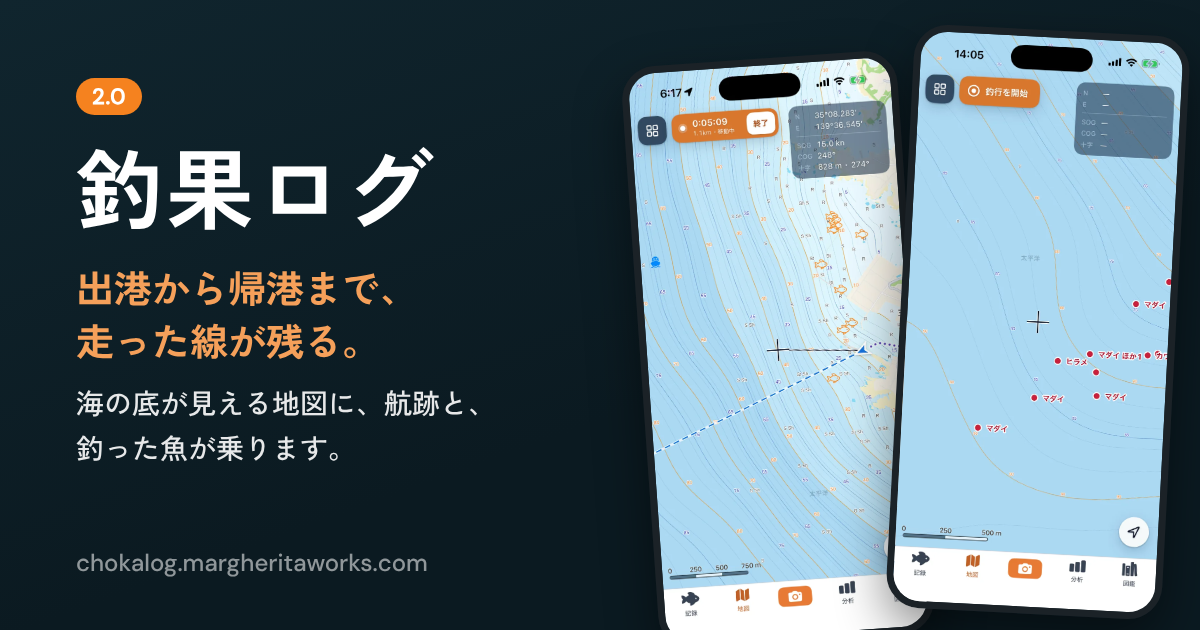
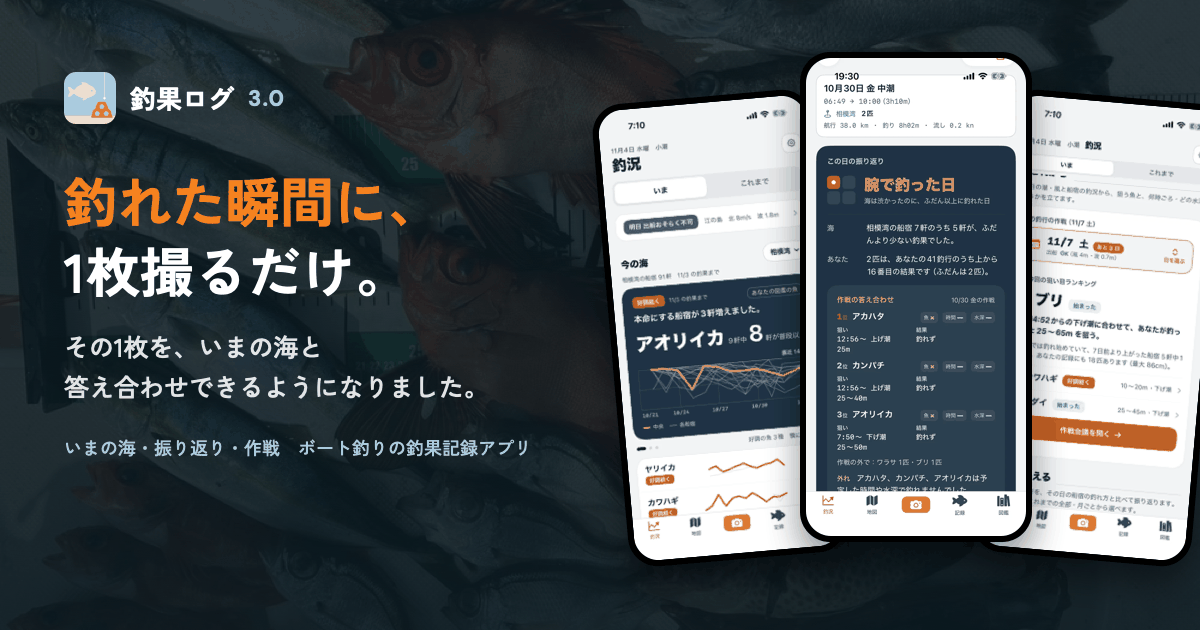
プライバシーポリシーに 3.0 の節（AI・船宿の釣況・海面水温・取り込み）を足し、分析の見方に 3.0 の移動を入れ、ページの説明と og.png を 3.0 にする（使っていない素材は外す）

diff --git a/privacy/index.html b/privacy/index.html
@@ -4,14 +4,14 @@
   <meta charset="utf-8" />
   <meta name="viewport" content="width=device-width, initial-scale=1" />
   <title>プライバシーポリシー｜釣果ログ</title>
-  <meta name="description" content="釣果ログ（iPhone版・Android版）のプライバシーポリシー。扱う情報、位置情報と航跡、海況の取得や分析のために送る情報、地図の表示、ご意見の送信、バックアップと同期、データの削除、お問い合わせ先。" />
+  <meta name="description" content="釣果ログ（iPhone版・Android版）のプライバシーポリシー。扱う情報、位置情報と航跡、海況の取得や分析のために送る情報、地図の表示、釣果ログ プラスと AI の機能、船宿の釣況、海面水温、海釣図V の記録の取り込み、ご意見の送信、バックアップと同期、データの削除、お問い合わせ先。" />
   <link rel="canonical" href="https://chokalog.margheritaworks.com/privacy/" />
 
   <!-- OGP -->
   <meta property="og:type"        content="website" />
   <meta property="og:url"         content="https://chokalog.margheritaworks.com/privacy/" />
   <meta property="og:title"       content="プライバシーポリシー｜釣果ログ" />
-  <meta property="og:description" content="釣果ログ（iPhone版・Android版）のプライバシーポリシー。扱う情報、位置情報と航跡、海況の取得や分析のために送る情報、地図の表示、ご意見の送信、バックアップと同期、データの削除、お問い合わせ先。" />
+  <meta property="og:description" content="釣果ログ（iPhone版・Android版）のプライバシーポリシー。扱う情報、位置情報と航跡、海況の取得や分析のために送る情報、地図の表示、釣果ログ プラスと AI の機能、船宿の釣況、海面水温、海釣図V の記録の取り込み、ご意見の送信、バックアップと同期、データの削除、お問い合わせ先。" />
   <meta property="og:image"       content="https://chokalog.margheritaworks.com/assets/img/og.png" />
   <meta property="og:image:width" content="1200" />
   <meta property="og:image:height" content="630" />
@@ -110,7 +110,7 @@
     <div class="privacy-page-header" style="padding-top: 48px;">
       <span class="label label--blue" style="display:block; margin-bottom:16px;">LEGAL</span>
       <h1 style="margin:0 0 12px; font-size:var(--text-display); font-weight:700; line-height:1.28;"><span class="nw">プライバシーポリシー</span></h1>
-      <p style="margin:0; font-size:var(--text-caption); font-weight:500; color:var(--color-ink-muted);">最終更新日：2026年10月23日</p>
+      <p style="margin:0; font-size:var(--text-caption); font-weight:500; color:var(--color-ink-muted);"><!-- 3.0 の公開の日に、公開日に直す -->最終更新日：2026年11月4日</p>
     </div>
 
     <!-- 本文レイアウト（デスクトップ: 2カラム） -->
@@ -126,16 +126,20 @@
           <a href="#pp-analysis">5. 分析のために送る情報（iPhone版）</a>
           <a href="#pp-map">6. 地図の表示</a>
           <a href="#pp-place">7. 地名の表示（iPhone版）</a>
-          <a href="#pp-permission">8. 権限の利用目的</a>
-          <a href="#pp-feedback">9. ご意見の送信</a>
-          <a href="#pp-backup">10. バックアップと同期</a>
-          <a href="#pp-ads">11. 第三者提供・広告・解析</a>
-          <a href="#pp-https">12. 通信の暗号化</a>
-          <a href="#pp-delete">13. データの削除</a>
-          <a href="#pp-source">14. データの出典と免責</a>
-          <a href="#pp-changes">15. 本ポリシーの変更</a>
-          <a href="#pp-contact">16. お問い合わせ</a>
-          <a href="#pp-notify">17. お知らせの配信希望</a>
+          <a href="#pp-ai">8. 釣果ログ プラスと AI の機能（3.0 から）</a>
+          <a href="#pp-chokyo">9. 船宿の釣況（3.0 から）</a>
+          <a href="#pp-sst">10. 海面水温の自動入力（3.0 から）</a>
+          <a href="#pp-import">11. 海釣図V の記録の取り込み（3.0 から）</a>
+          <a href="#pp-permission">12. 権限の利用目的</a>
+          <a href="#pp-feedback">13. ご意見の送信</a>
+          <a href="#pp-backup">14. バックアップと同期</a>
+          <a href="#pp-ads">15. 第三者提供・広告・解析</a>
+          <a href="#pp-https">16. 通信の暗号化</a>
+          <a href="#pp-delete">17. データの削除</a>
+          <a href="#pp-source">18. データの出典と免責</a>
+          <a href="#pp-changes">19. 本ポリシーの変更</a>
+          <a href="#pp-contact">20. お問い合わせ</a>
+          <a href="#pp-notify">21. お知らせの配信希望</a>
         </aside>
 
       <!-- モバイル目次（<details> で折り畳み） -->
@@ -149,16 +153,20 @@
             <a href="#pp-analysis">5. 分析のために送る情報（iPhone版）</a>
             <a href="#pp-map">6. 地図の表示</a>
             <a href="#pp-place">7. 地名の表示（iPhone版）</a>
-            <a href="#pp-permission">8. 権限の利用目的</a>
-            <a href="#pp-feedback">9. ご意見の送信</a>
-            <a href="#pp-backup">10. バックアップと同期</a>
-            <a href="#pp-ads">11. 第三者提供・広告・解析</a>
-            <a href="#pp-https">12. 通信の暗号化</a>
-            <a href="#pp-delete">13. データの削除</a>
-            <a href="#pp-source">14. データの出典と免責</a>
-            <a href="#pp-changes">15. 本ポリシーの変更</a>
-            <a href="#pp-contact">16. お問い合わせ</a>
-            <a href="#pp-notify">17. お知らせの配信希望</a>
+            <a href="#pp-ai">8. 釣果ログ プラスと AI の機能（3.0 から）</a>
+            <a href="#pp-chokyo">9. 船宿の釣況（3.0 から）</a>
+            <a href="#pp-sst">10. 海面水温の自動入力（3.0 から）</a>
+            <a href="#pp-import">11. 海釣図V の記録の取り込み（3.0 から）</a>
+            <a href="#pp-permission">12. 権限の利用目的</a>
+            <a href="#pp-feedback">13. ご意見の送信</a>
+            <a href="#pp-backup">14. バックアップと同期</a>
+            <a href="#pp-ads">15. 第三者提供・広告・解析</a>
+            <a href="#pp-https">16. 通信の暗号化</a>
+            <a href="#pp-delete">17. データの削除</a>
+            <a href="#pp-source">18. データの出典と免責</a>
+            <a href="#pp-changes">19. 本ポリシーの変更</a>
+            <a href="#pp-contact">20. お問い合わせ</a>
+            <a href="#pp-notify">21. お知らせの配信希望</a>
           </nav>
       </details>
 
@@ -173,7 +181,7 @@
         <section id="pp-overview" aria-labelledby="pp-overview-heading">
           <h2 id="pp-overview-heading"><span class="nw">2.</span> <span class="nw">この</span><span class="nw">アプリが</span><span class="nw">扱う</span><span class="nw">情報の</span><span class="nw">全体</span></h2>
           <p>釣果ログは、アカウントの登録なしでお使いいただけるアプリです。写真と釣果の記録（魚種、全長、水深、メモなど）、釣行の航跡は、お使いの端末の中に保存します。運営者のサーバーに保存することはありません。魚種の判定も、端末の中で行います。</p>
-          <p>ただし、潮汐・天気・底質などの取得、地図の表示、分析のために、釣果の位置や、位置を含む範囲を外部に送ります。何を、どこへ送るかは、4〜7 に書きます。</p>
+          <p>ただし、潮汐・天気・底質などの取得、地図の表示、分析のために、釣果の位置や、位置を含む範囲を外部に送ります。3.0 からは、振り返りなどの AI の機能、船宿の釣況、海面水温の自動入力のためにも送ります。何を、どこへ送るかは、4〜11 に書きます。</p>
         </section>
 
         <section id="pp-location" aria-labelledby="pp-location-heading">
@@ -187,6 +195,7 @@
           <p>釣行を記録していないとき（出港の自動検知もオフのとき）は、アプリが裏に回ると、位置情報の取得を止めます。</p>
           <p>航跡（時刻、緯度・経度、位置の精度、速さ、進む向き、移動中か釣り中か）は、端末の中だけに保存し、運営者のサーバーにも、ほかのどこにも送りません。航跡が端末の外に出るのは、ご自身でバックアップなどを書き出した場合だけです。釣果の無い釣行の天気を取るために航跡の中の 1 点の座標を送ることは 4 に、分析のために航跡のまわりのおおまかな範囲を送ることは 5 に書きます。</p>
           <p>釣行の記録中は、アプリの動作の記録（電池の残量、端末の温度の状態、位置の精度の統計など。緯度・経度は含みません）を、端末の中に 1 分ごとに残します。この記録が端末の外に出るのは、設定からご自身で共有した場合だけです。</p>
+          <p>iPhone版の 3.0 では、初めてアプリを入れた方（釣果も母港もない方）に、近くの海の釣況を出すため、現在地から一番近い対応している海域を選びます。このときの現在地は、約 1km に丸めて端末の中に保存し、海域を選ぶためだけに端末の中で使います。</p>
           <p>取得した現在地そのものを外部に送ることはありませんが、撮影したときの現在地は釣果の位置となり、4 の海況の取得に使われます。</p>
         </section>
 
@@ -194,7 +203,7 @@
           <h2 id="pp-network-heading"><span class="nw">4.</span> <span class="nw">海況の</span><span class="nw">取得のために</span><span class="nw">送る</span><span class="nw">情報</span></h2>
           <p>釣果に潮汐・潮流・天気・底質などを添えるため、釣果の位置と日時を、次の先に送ります。</p>
           <ul>
-            <li>気象データ（気温・天気・風・波）：Open-Meteo に、釣果の位置（緯度・経度）と日付を送ります。位置は丸めず、小数 5 桁（約 1m）の細かさのまま送ります（iPhone版・Android版とも）。また、釣行の 1 日分の天気を取るときに、その釣行のエリアの地点の緯度・経度も、同じように送ります。釣果の無い釣行では、航跡の中の 1 点（最初に釣りをしていた点。無ければ最初の点）をエリアの地点にするので、その点の緯度・経度を送ります。送った情報を、運営者が保存することはありません。</li>
+            <li>気象データ（気温・天気・風・波）：Open-Meteo に、釣果の位置（緯度・経度）と日付を送ります。位置は丸めず、小数 5 桁（約 1m）の細かさのまま送ります（iPhone版・Android版とも）。また、釣行の 1 日分の天気を取るときに、その釣行のエリアの地点の緯度・経度も、同じように送ります。釣果の無い釣行では、航跡の中の 1 点（最初に釣りをしていた点。無ければ最初の点）をエリアの地点にするので、その点の緯度・経度を送ります。送った情報を、運営者が保存することはありません。iPhone版の 3.0 からは、明日の海や作戦の日の予報を取るために、母港・最近の釣果の位置・端末の現在地（約 1km に丸めて端末に保存した値）などの緯度・経度も、Open-Meteo に送ります。</li>
             <li>潮汐・潮流・海底の情報：運営者が管理するサーバー（Cloudflare Workers）に送ります。底質・魚礁・沈船を調べるときは、釣果の位置を中心にした範囲（緯度・経度それぞれ ±0.1°）を送ります。範囲の中心が釣果の位置なので、送った範囲から釣果の位置（iPhone版では約 10m の細かさ）が分かります。潮汐と潮流は、端末の中で選んだ、釣果の位置に近い推算点と海域の番号と、日付・時刻を送ります（緯度・経度は送りません）。サーバーは、送られた範囲を約 25km 四方（緯度・経度 0.25°）の升目の区切りまで広げた単位で、取得した結果を保存し、最大 90 日（底質は 90 日、魚礁・沈船は 30 日）で消します。同じ場所の問い合わせに再利用するためで、どの利用者が問い合わせたかは記録しません。</li>
           </ul>
           <p>位置が確定していない釣果については、送りません。</p>
@@ -227,8 +236,33 @@
           <p>釣果の画面に地名を出すため、釣果の位置（緯度・経度）を、Apple の地名を調べる機能（iOS の位置情報の機能）を通じて Apple に送ります。渡した情報の扱いは、<a href="https://www.apple.com/jp/legal/privacy/">Apple のプライバシーポリシー</a>に従います。</p>
         </section>
 
+        <section id="pp-ai" aria-labelledby="pp-ai-heading">
+          <h2 id="pp-ai-heading"><span class="nw">8.</span> <span class="nw">釣果ログ プラスと</span><span class="nw">AI の機能（3.0 から）</span></h2>
+          <p>振り返りや作戦の文章は AI が書いています。数字と分類はアプリが計算し、AI はそれを文章にするだけです。</p>
+          <p>文章を作るために、海域・日付・時刻・水深・潮・底質・魚種・大きさ・匹数と、振り返りではエリアの名前（あなたが付けた釣り場の名前）と約 10km 四方の区画を、当社のサーバー（Cloudflare）に送ります。釣った場所の緯度経度、航跡、写真は送りません。送った内容は文章を作るためだけに使い、サーバーには残しません。文章は Cloudflare の Workers AI で作ります。</p>
+          <p>無料の振り返りの回数と、釣果ログ プラスの使用の回数を数えるため、アプリが作る端末の ID と、App Store の購入の ID を、元に戻せない形（ハッシュ）にした値と、回数だけをサーバーに保存します。釣果の中身は保存しません。これらを広告やトラッキングに使うことはありません。</p>
+          <p>釣果ログ プラスの購入は Apple の App Store（Android版は Google Play）で行われます。お支払いの情報を当社が受け取ることはありません。</p>
+        </section>
+
+        <section id="pp-chokyo" aria-labelledby="pp-chokyo-heading">
+          <h2 id="pp-chokyo-heading"><span class="nw">9.</span> <span class="nw">船宿の</span><span class="nw">釣況（3.0 から）</span></h2>
+          <p>船宿の釣況は、今釣れ（imatsure.com）から、海域・魚種・日付・港を指定して読み込みます。あなたの位置（緯度経度）や釣果は送りません。今釣れの側には、通信のアクセスの記録が残ることがあります。</p>
+          <p>「この海域を希望する」を押したときは、海域の名前だけを当社のサーバーに送ります。</p>
+        </section>
+
+        <section id="pp-sst" aria-labelledby="pp-sst-heading">
+          <h2 id="pp-sst-heading"><span class="nw">10.</span> <span class="nw">海面水温の</span><span class="nw">自動入力（3.0 から）</span></h2>
+          <p>水温を手で入れていない釣果に、衛星で測った海面水温を入れるため、釣った場所を小数 2 桁（約 1km）に丸めた緯度・経度と日付を、当社のサーバー（Cloudflare Workers）に送ります。サーバーは場所を保存しません。サーバーから海面水温のデータの提供元へは、緯度・経度 1° ごとのマスの名前（例：N35E139）と日付だけを渡します。手で水温を入れた釣果では、送りません。</p>
+        </section>
+
+        <section id="pp-import" aria-labelledby="pp-import-heading">
+          <h2 id="pp-import-heading"><span class="nw">11.</span> <span class="nw">海釣図V の</span><span class="nw">記録の</span><span class="nw">取り込み（3.0 から）</span></h2>
+          <p>海釣図V のバックアップの取り込みは、端末の中だけで行い、外には何も送りません。取り込んだ後に水深・水温・天気・潮を入れるときは、ふだん釣果を入れたときと同じ通信を行います（4・10 に書いたとおり）。</p>
+          <p>取り込みで「iPhone から自動で探す」を選んだときだけ、写真ライブラリの読み取りの許可を求め、取り込む釣行の時間に撮った写真を撮影日時で探して、釣果に付けます。写真の位置は使いません。写真は端末の外へ送りません。</p>
+        </section>
+
         <section id="pp-permission" aria-labelledby="pp-permission-heading">
-          <h2 id="pp-permission-heading"><span class="nw">8.</span> <span class="nw">権限の</span><span class="nw">利用目的</span></h2>
+          <h2 id="pp-permission-heading"><span class="nw">12.</span> <span class="nw">権限の</span><span class="nw">利用目的</span></h2>
           <p>本アプリが要求するシステム権限とその目的は以下のとおりです。</p>
           <table class="def-table" aria-label="権限の利用目的">
             <thead>
@@ -240,7 +274,7 @@
             <tbody>
               <tr>
                 <td>写真ライブラリ<br>（iPhone版）</td>
-                <td>釣果を記録する際に写真を選択するために必要です。撮影日時・位置情報（Exif）を記録の初期値に使用します。撮影した釣果の写真を写真ライブラリに保存するときにも使います。写真データはサーバーへ送信しません。</td>
+                <td>釣果を記録する際に写真を選択するために必要です。撮影日時・位置情報（Exif）を記録の初期値に使用します。撮影した釣果の写真を写真ライブラリに保存するときにも使います。3.0 から、海釣図V の記録の取り込みで「iPhone から自動で探す」を選んだときだけ、写真ライブラリの読み取りの許可を求めます（11 を参照）。写真データはサーバーへ送信しません。</td>
               </tr>
               <tr>
                 <td>写真の選択<br>（Android版）</td>
@@ -252,7 +286,7 @@
               </tr>
               <tr>
                 <td>位置情報（使用中のみ）<br>（iPhone版・Android版）</td>
-                <td>釣果場所を地図上に正確に記録するため、地図に現在地を出すため、釣行の航跡を記録するために必要です。釣行の記録中に限り、画面を閉じた後も位置情報を使います（「位置情報と航跡」を参照）。撮影したときの現在地は釣果の位置となり、「海況の取得のために送る情報」に書いた送信に使われます。Android版では、正確な位置とおおよその位置の権限を求めます。位置情報を許可しなくても、釣果は記録できます。</td>
+                <td>釣果場所を地図上に正確に記録するため、地図に現在地を出すため、釣行の航跡を記録するため、近くの海の釣況を出すために必要です。釣行の記録中に限り、画面を閉じた後も位置情報を使います（「位置情報と航跡」を参照）。撮影したときの現在地は釣果の位置となり、「海況の取得のために送る情報」に書いた送信に使われます。Android版では、正確な位置とおおよその位置の権限を求めます。位置情報を許可しなくても、釣果は記録できます。</td>
               </tr>
               <tr>
                 <td>位置情報（常に）<br>（iPhone版）</td>
@@ -260,14 +294,14 @@
               </tr>
               <tr>
                 <td>通知<br>（iPhone版・Android版）</td>
-                <td>iPhone版：出港の自動検知で、釣行の記録を始めたとき・終えたときにお知らせするために使います。出港の自動検知をオンにしたときだけ求めます。<br>Android版：釣行の記録中であることを、通知でお知らせするために使います。Android 13 以上で、初めて記録を始めるときに求めます。許可しなくても、記録はできます。</td>
+                <td>iPhone版：出港の自動検知で、釣行の記録を始めたとき・終えたときにお知らせするために使います。3.0 からは、気になる魚が上向いたとき、作戦の日の出船の目安が悪くなったとき、海の上の通知（釣果ログ プラス）などにも使います。通知は端末の中で作り、サーバーからは送りません。許可は、通知を初めてオンにしたときに求めます。<br>Android版：釣行の記録中であることを、通知でお知らせするために使います。Android 13 以上で、初めて記録を始めるときに求めます。許可しなくても、記録はできます。</td>
               </tr>
             </tbody>
           </table>
         </section>
 
 <section id="pp-feedback" aria-labelledby="pp-feedback-heading">
-          <h2 id="pp-feedback-heading"><span class="nw">9.</span> <span class="nw">ご</span><span class="nw">意見の</span><span class="nw">送信</span></h2>
+          <h2 id="pp-feedback-heading"><span class="nw">13.</span> <span class="nw">ご</span><span class="nw">意見の</span><span class="nw">送信</span></h2>
           <p>アプリの「ご意見を送る」からご意見をお送りいただいた場合、次の情報を運営者のサーバーに送ります。</p>
           <ul>
             <li>ご意見の本文と種類</li>
@@ -278,7 +312,7 @@
         </section>
 
         <section id="pp-backup" aria-labelledby="pp-backup-heading">
-          <h2 id="pp-backup-heading"><span class="nw">10.</span> <span class="nw">バックアップと</span><span class="nw">同期</span></h2>
+          <h2 id="pp-backup-heading"><span class="nw">14.</span> <span class="nw">バックアップと</span><span class="nw">同期</span></h2>
           <ul>
             <li>iPhone版：iCloud での同期は行いません。記録は端末の中にあります。設定の「データ管理」から、バックアップ（JSON、または写真と航跡を含む zip）を書き出せます。書き出したファイルは iOS の共有の画面で渡し、保存先はご自身で選びます。アプリがどこかへ送ることはありません。</li>
             <li>Android版：Android の自動バックアップにより、記録と設定がお使いの Google アカウントにバックアップされます。写真と航跡の線は含みません（自動バックアップから戻した場合、釣行の距離と釣りの時間は残りますが、地図の航跡の線は出ません）。設定の「データ管理」から、バックアップ（JSON、または写真と航跡を含む zip）を書き出せます。書き出したファイルは Android の共有の画面で渡し、保存先はご自身で選びます。アプリがどこかへ送ることはありません。</li>
@@ -287,37 +321,38 @@
         </section>
 
 <section id="pp-ads" aria-labelledby="pp-ads-heading">
-          <h2 id="pp-ads-heading"><span class="nw">11.</span> <span class="nw">第三者提供・広告・解析</span></h2>
+          <h2 id="pp-ads-heading"><span class="nw">15.</span> <span class="nw">第三者提供・広告・解析</span></h2>
           <p>広告は表示しません。アプリ自体には、利用状況を解析するための仕組みを組み込んでいません。ただし、Google Play からインストールした Android版では、Google Play が、アプリが異常終了したときの記録や、アプリの動作の統計を集め、開発者に提供することがあります（Google Play の仕組みによるもので、詳しくは <a href="https://policies.google.com/privacy">Google のプライバシーポリシー</a> をご覧ください）。</p>
-          <p>釣果データや個人情報を、第三者に販売・提供することはありません。ただし、「海況の取得のために送る情報」「分析のために送る情報」「地図の表示」「地名の表示」に書いた送信を除きます。</p>
+          <p>釣果データや個人情報を、第三者に販売・提供することはありません。ただし、「海況の取得のために送る情報」「分析のために送る情報」「地図の表示」「地名の表示」「釣果ログ プラスと AI の機能」「船宿の釣況」「海面水温の自動入力」に書いた送信を除きます。</p>
         </section>
 
 <section id="pp-https" aria-labelledby="pp-https-heading">
-          <h2 id="pp-https-heading"><span class="nw">12.</span> <span class="nw">通信の</span><span class="nw">暗号化</span></h2>
+          <h2 id="pp-https-heading"><span class="nw">16.</span> <span class="nw">通信の</span><span class="nw">暗号化</span></h2>
           <p>外部との通信は、すべて暗号化（HTTPS）して行います。</p>
         </section>
 
 <section id="pp-delete" aria-labelledby="pp-delete-heading">
-          <h2 id="pp-delete-heading"><span class="nw">13.</span> <span class="nw">データの</span><span class="nw">削除</span></h2>
+          <h2 id="pp-delete-heading"><span class="nw">17.</span> <span class="nw">データの</span><span class="nw">削除</span></h2>
           <p>端末の中の記録は、アプリの中で削除できます。アプリを削除すると、端末の中の記録もすべて削除されます。お送りいただいたご意見の削除を希望される場合は、<a href="mailto:support@margheritaworks.com">support@margheritaworks.com</a> までご連絡ください。</p>
         </section>
 
 <section id="pp-source" aria-labelledby="pp-source-heading">
-          <h2 id="pp-source-heading"><span class="nw">14.</span> <span class="nw">データの</span><span class="nw">出典と</span><span class="nw">免責</span></h2>
+          <h2 id="pp-source-heading"><span class="nw">18.</span> <span class="nw">データの</span><span class="nw">出典と</span><span class="nw">免責</span></h2>
           <!-- 海しるAPI利用規約第5条の文言（一字一句変更禁止） -->
           <p>このサービスは、海しるAPIを利用して取得した情報をもとに作成しているが、サービスの内容は海上保安庁によって保証されたものではない</p>
           <p>出典：海洋状況表示システム（<a href="https://www.msil.go.jp/">https://www.msil.go.jp/</a>）</p>
+          <p>海面水温：NASA/JPL MUR SST。These data were provided by JPL under support by NASA MEaSUREs program.</p>
           <p style="color:var(--color-ink-muted);">本アプリは、航海・安全・漁業その他の専門的判断には使用できません。</p>
         </section>
 
 <section id="pp-changes" aria-labelledby="pp-changes-heading">
-          <h2 id="pp-changes-heading"><span class="nw">15.</span> <span class="nw">本ポリシーの</span><span class="nw">変更</span></h2>
+          <h2 id="pp-changes-heading"><span class="nw">19.</span> <span class="nw">本ポリシーの</span><span class="nw">変更</span></h2>
           <p>本ポリシーを変更する場合は、このページの最終更新日を更新します。重要な変更がある場合は、アプリ内でも通知します。</p>
           <p>最新のポリシーは常にこのページでご確認いただけます。</p>
         </section>
 
 <section id="pp-contact" aria-labelledby="pp-contact-heading">
-          <h2 id="pp-contact-heading"><span class="nw">16.</span> <span class="nw">お</span><span class="nw">問い</span><span class="nw">合わせ</span></h2>
+          <h2 id="pp-contact-heading"><span class="nw">20.</span> <span class="nw">お</span><span class="nw">問い</span><span class="nw">合わせ</span></h2>
           <div class="contact-block">
             <p style="margin:0; font-size:var(--text-heading-sm); font-weight:700; line-height:1.4;">お問い合わせ</p>
             <p style="margin:0; color:var(--color-ink-muted);">本ポリシーおよび本アプリに関するご質問は下記までご連絡ください。</p>
@@ -329,7 +364,7 @@
         </section>
 
 <section id="pp-notify" aria-labelledby="pp-notify-heading">
-          <h2 id="pp-notify-heading"><span class="nw">17.</span> <span class="nw">お</span><span class="nw">知らせの</span><span class="nw">配信希望</span></h2>
+          <h2 id="pp-notify-heading"><span class="nw">21.</span> <span class="nw">お</span><span class="nw">知らせの</span><span class="nw">配信希望</span></h2>
           <p>Android版などのお知らせを希望される方から、メールアドレスをお預かりすることがあります。お預かりしたアドレスは、テスト参加のお願いと公開のお知らせの送信にのみ使用し、第三者に提供しません。お知らせメール内のリンク、または <a href="mailto:support@margheritaworks.com">support@margheritaworks.com</a> へのご連絡により、いつでも削除できます。</p>
         </section>
 

diff --git a/analysis/index.html b/analysis/index.html
@@ -4,14 +4,14 @@
   <meta charset="utf-8" />
   <meta name="viewport" content="width=device-width, initial-scale=1" />
   <title>分析の見方｜釣果ログ</title>
-  <meta name="description" content="釣果ログの「分析」タブの読み方。記録がたまると、あなた自身の記録を統計分析して、下げ潮・朝まづめ・水深×底質など、自分の当たりパターンが「時間あたり」の倍率で見えてきます。" />
+  <meta name="description" content="釣果ログの分析（3.0 からは釣況の「これまで」）の読み方。記録がたまると、あなた自身の記録を統計分析して、下げ潮・朝まづめ・水深×底質など、自分の当たりパターンが「時間あたり」の倍率で見えてきます。" />
   <link rel="canonical" href="https://chokalog.margheritaworks.com/analysis/" />
 
   <!-- OGP -->
   <meta property="og:type"        content="article" />
   <meta property="og:url"         content="https://chokalog.margheritaworks.com/analysis/" />
   <meta property="og:title"       content="分析の見方｜釣果ログ" />
-  <meta property="og:description" content="記録がたまると、あなた自身の当たりパターンが「時間あたり」の倍率で見えてきます。分析タブの読み方を、実際の画面で解説します。" />
+  <meta property="og:description" content="記録がたまると、あなた自身の当たりパターンが「時間あたり」の倍率で見えてきます。分析（3.0 からは釣況の「これまで」）の読み方を、実際の画面で解説します。" />
   <meta property="og:image"       content="https://chokalog.margheritaworks.com/assets/img/og.png" />
   <meta property="og:image:width" content="1200" />
   <meta property="og:image:height" content="630" />
@@ -181,7 +181,7 @@
         <a href="#per-hour">「時間あたり」って何ですか</a>
         <a href="#why">信頼できる理由</a>
         <a href="#tips">記録をためるコツ</a>
-        <a href="#future">2.0 で変わったこと</a>
+        <a href="#future">2.0・3.0 で変わったこと</a>
         <a href="#notes">注意していただきたいこと</a>
       </aside>
 
@@ -196,7 +196,7 @@
           <a href="#per-hour">「時間あたり」って何ですか</a>
           <a href="#why">信頼できる理由</a>
           <a href="#tips">記録をためるコツ</a>
-          <a href="#future">2.0 で変わったこと</a>
+          <a href="#future">2.0・3.0 で変わったこと</a>
           <a href="#notes">注意していただきたいこと</a>
         </nav>
       </details>
@@ -206,7 +206,8 @@
 
         <section id="intro" aria-labelledby="intro-h">
           <h2 id="intro-h"><span class="nw">はじめに</span></h2>
-          <p>釣果ログの「分析」タブは、あなた自身の釣果記録を統計分析して、「どんなときに釣れているか」を探し、言葉で教えてくれる機能です。自分でも気づいていなかったパターンが見つかることもあります。</p>
+          <p class="note-line" style="margin-bottom:16px;">3.0 から、2.0 の「分析」タブは、中身はそのままで、［釣況］タブの「これまで」に移りました。このページの画面は 2.0 のものです。読み方は変わりません。</p>
+          <p>釣果ログの分析（3.0 からは釣況の「これまで」）は、あなた自身の釣果記録を統計分析して、「どんなときに釣れているか」を探し、言葉で教えてくれる機能です。自分でも気づいていなかったパターンが見つかることもあります。</p>
           <p>たとえばこんな一文が出ます。</p>
           <div class="insight-quote">
             <strong>下げ潮のときによく釣れています</strong>
@@ -217,7 +218,7 @@
 
           <figure class="shot">
             <img src="/assets/img/2.0/analysis-top.webp" alt="分析タブの上部。総釣果 36 件・釣行 20 回・1 釣行あたり 1.8 匹、「よく釣れている条件」カード（朝まづめ × 中潮）、傾向リストが並ぶ" loading="lazy" width="300" />
-            <figcaption>分析タブの上部。上の3つの数字、その下に「よく釣れている条件」と傾向リストが並びます。</figcaption>
+            <figcaption>分析の画面の上部（2.0 の画面）。上の3つの数字、その下に「よく釣れている条件」と傾向リストが並びます。</figcaption>
           </figure>
         </section>
 
@@ -365,9 +366,10 @@
         </section>
 
         <section id="future" aria-labelledby="future-h">
-          <h2 id="future-h"><span class="nw">2.0</span> <span class="nw">で</span><span class="nw">変わったこと</span></h2>
+          <h2 id="future-h"><span class="nw">2.0・3.0</span> <span class="nw">で</span><span class="nw">変わったこと</span></h2>
           <p>2.0 で、出港から帰港までの航跡を記録できるようになりました。航跡から「釣りをしていた時間」が分かるので、水深・底質などの場所の条件は、その時間に対してどれだけ釣れたかで数えるようになりました（上の「場所の条件は、実際に釣りをしていた時間で」）。地図で過去の釣行を重ねれば、どこを流して、どこで釣れたかも見比べられます。</p>
           <p>2.0 より前の記録も、そのまま分析に使えます。航跡のない釣行は、これまでどおり数えます。</p>
+          <p>3.0 で、分析は［釣況］タブの「これまで」に移りました。中身は 2.0 のままで、無料で使えます。水温に衛星で測った海面水温が自動で入るようになり、「条件ごとの分布」に水温（2℃ ごと）が加わりました。</p>
         </section>
 
         <section id="notes" aria-labelledby="notes-h">

diff --git a/index.html b/index.html
@@ -3,8 +3,8 @@
 <head>
   <meta charset="utf-8" />
   <meta name="viewport" content="width=device-width, initial-scale=1" />
-  <title>釣果ログ｜写真1枚で、魚種・水深・潮まで自動で記録するボート釣りアプリ</title>
-  <meta name="description" content="釣れた瞬間に1枚撮るだけ。魚種・水深・潮・底質まで自動で入り、出港から帰港までの航跡と、等深線で海の底が見える地図も残ります。たまった記録を統計分析して、よく釣れている条件がわかる、ボート釣り用の釣果記録アプリ。" />
+  <title>釣果ログ｜1枚撮るだけで記録して、いまの海と答え合わせするボート釣りアプリ</title>
+  <meta name="description" content="釣れた瞬間に1枚撮るだけ。魚種・水深・潮・海面水温まで自動で入り、その1枚を、船宿の釣果をもとにした「いまの海」と答え合わせできます。帰ったら、船宿の釣果と自分の釣果を並べて振り返り。地図・航跡・統計分析・いまの海は無料です。" />
   <link rel="canonical" href="https://chokalog.margheritaworks.com/" />
   <link rel="icon" href="/favicon.ico" sizes="any" />
   <link rel="icon" type="image/png" sizes="32x32" href="/assets/img/favicon-32.png" />
@@ -14,19 +14,19 @@
   <!-- OGP -->
   <meta property="og:type"        content="website" />
   <meta property="og:url"         content="https://chokalog.margheritaworks.com/" />
-  <meta property="og:title"       content="釣果ログ｜写真1枚で、魚種・水深・潮まで自動で記録するボート釣りアプリ" />
-  <meta property="og:description" content="釣れた瞬間に1枚撮るだけ。魚種・水深・潮・底質まで自動で入り、出港から帰港までの航跡と、等深線で海の底が見える地図も残ります。たまった記録を統計分析して、よく釣れている条件がわかる、ボート釣り用の釣果記録アプリ。" />
+  <meta property="og:title"       content="釣果ログ｜1枚撮るだけで記録して、いまの海と答え合わせするボート釣りアプリ" />
+  <meta property="og:description" content="釣れた瞬間に1枚撮るだけ。魚種・水深・潮・海面水温まで自動で入り、その1枚を、船宿の釣果をもとにした「いまの海」と答え合わせできます。帰ったら、船宿の釣果と自分の釣果を並べて振り返り。地図・航跡・統計分析・いまの海は無料です。" />
   <meta property="og:image"       content="https://chokalog.margheritaworks.com/assets/img/og.png" />
   <meta property="og:image:secure_url" content="https://chokalog.margheritaworks.com/assets/img/og.png" />
   <meta property="og:image:type"  content="image/png" />
   <meta property="og:image:width" content="1200" />
   <meta property="og:image:height" content="630" />
-  <meta property="og:image:alt"   content="釣果ログ 2.0 — 航跡と、海の底が見える地図" />
+  <meta property="og:image:alt"   content="釣果ログ 3.0 — 釣れた瞬間に、1枚撮るだけ。その1枚を、いまの海と答え合わせ" />
   <meta property="og:locale"      content="ja_JP" />
   <meta property="og:site_name"   content="釣果ログ" />
   <meta name="twitter:card"        content="summary_large_image" />
-  <meta name="twitter:title"       content="釣果ログ｜写真1枚で、魚種・水深・潮まで自動で記録するボート釣りアプリ" />
-  <meta name="twitter:description" content="釣れた瞬間に1枚撮るだけ。魚種・水深・潮・底質まで自動で入り、出港から帰港までの航跡と、等深線で海の底が見える地図も残ります。たまった記録を統計分析して、よく釣れている条件がわかる、ボート釣り用の釣果記録アプリ。" />
+  <meta name="twitter:title"       content="釣果ログ｜1枚撮るだけで記録して、いまの海と答え合わせするボート釣りアプリ" />
+  <meta name="twitter:description" content="釣れた瞬間に1枚撮るだけ。魚種・水深・潮・海面水温まで自動で入り、その1枚を、船宿の釣果をもとにした「いまの海」と答え合わせできます。帰ったら、船宿の釣果と自分の釣果を並べて振り返り。地図・航跡・統計分析・いまの海は無料です。" />
   <meta name="twitter:image"       content="https://chokalog.margheritaworks.com/assets/img/og.png" />
 
   <!-- フォント -->
